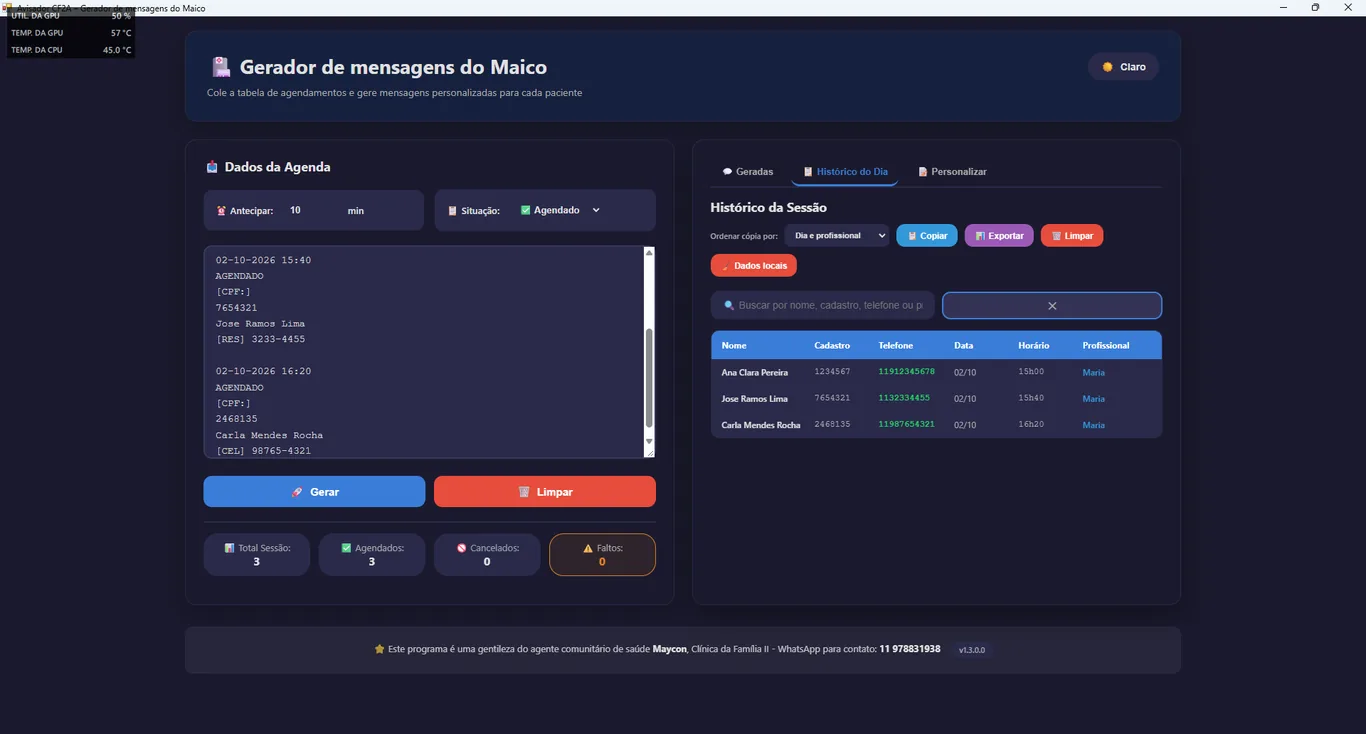
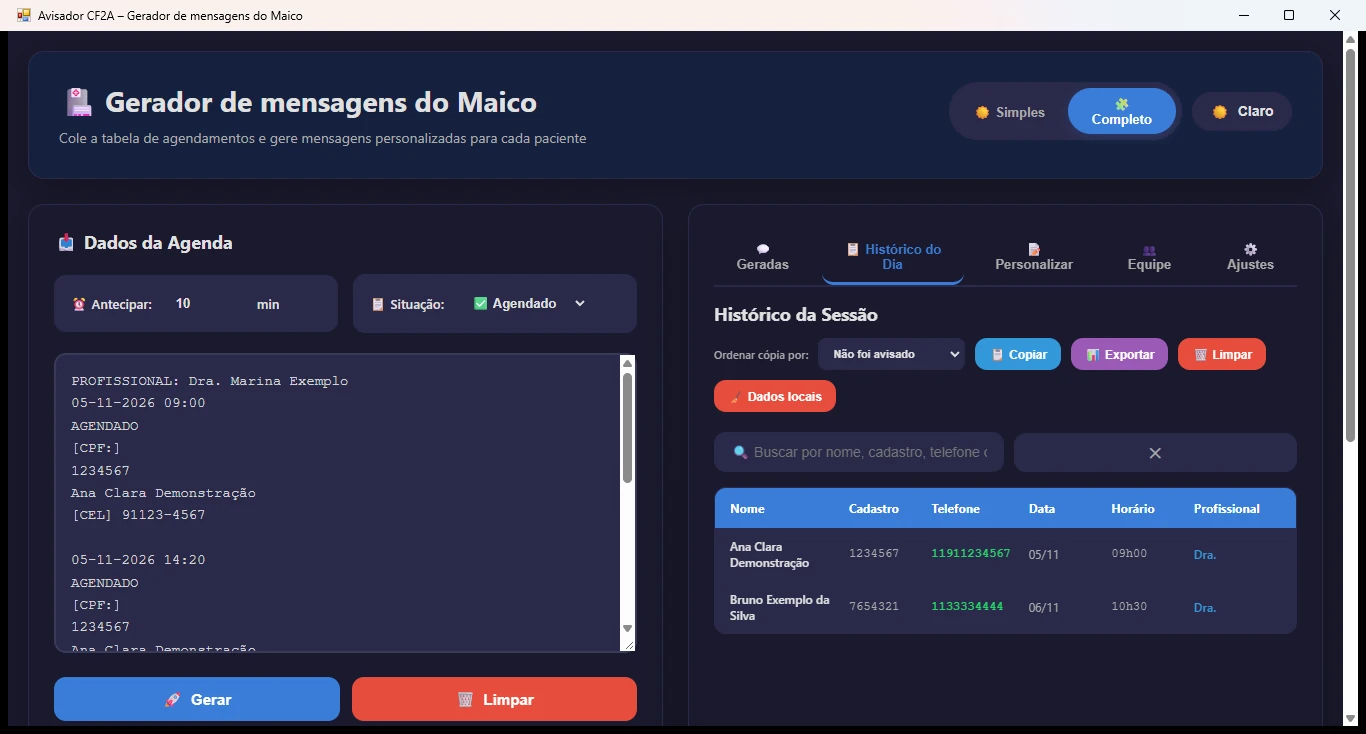
docs: landing, README e capturas WebP na v1.4.0 com og-image atualizada (GH5/GH8)

diff --git a/docs/index.html b/docs/index.html
@@ -107,12 +107,12 @@
             <div class="badges">
                 <span class="badge">🪟 Windows 10/11</span>
                 <span class="badge">🔒 100% offline</span>
-                <span class="badge">📦 v1.3.0</span>
+                <span class="badge">📦 v1.4.0</span>
                 <span class="badge">🧾 Sem cadastro</span>
             </div>
         </div>
         <div class="hero-shot">
-            <img src="assets/screenshot-02.webp" alt="Tela do Avisador CF2A com três mensagens de lembrete geradas, cada uma com telefone, botão de copiar, link e abertura no WhatsApp" width="1366" height="734">
+            <img src="assets/screenshot-02.webp" alt="Tela do Avisador CF2A em modo Completo com mensagens de lembrete geradas: selo ✨ primeira vez, telefone, botão de copiar, funcionando, link e abrir, e o horário antecipado com o original entre parênteses" width="1366" height="734">
         </div>
     </div>
 </header>
@@ -122,6 +122,7 @@
         <div class="card">
             <h2>O que é</h2>
             <p>O Avisador CF2A é um programa de computador (Windows) que transforma a tabela de agendamentos da Clínica da Família em mensagens de WhatsApp de lembrete de consulta. Você cola a tabela exportada do sistema da clínica, escolhe a situação (Agendado, Cancelado ou Faltou) e o programa monta um texto por paciente, com o horário já antecipado quando necessário, o link pronto para abrir no WhatsApp e o registro de tudo no histórico do dia.</p>
+            <p style="margin-top:12px">No <b>Modo Completo</b> (v1.4) você também vê os dados de cada evento, quem já foi avisado (✨ primeira vez ou 🔔 já avisado), a equipe responsável por cada pessoa, acumula várias agendas na fila e une os agendamentos da mesma pessoa numa única mensagem — e pode enviar SMS pelo seu próprio celular (OpenSMS), sem sair do programa.</p>
             <p style="margin-top:12px"><b>Para quem serve:</b> equipes de saúde que avisam pacientes por WhatsApp — agentes comunitários, recepcionistas e profissionais que precisam lembrar consultas sem digitar mensagem por mensagem.</p>
         </div>
     </div>
@@ -137,7 +138,7 @@
                 <figcaption><b>1. Tela inicial</b>Cole a tabela de agendamentos, ajuste quantos minutos antecipar e qual situação gerar. Os contadores mostram o total da sessão.</figcaption>
             </figure>
             <figure class="shot">
-                <img src="assets/screenshot-03.webp" alt="Avisador CF2A em tema escuro mostrando os cartões de mensagens geradas com telefone azul, botões de copiar, funcionando, link e abrir" width="1366" height="734" loading="lazy">
+                <img src="assets/screenshot-03.webp" alt="Avisador CF2A em tema escuro e modo Completo mostrando os cartões de mensagens geradas com selo ✨ primeira vez, telefone azul, botões de copiar, funcionando, link e abrir" width="1366" height="734" loading="lazy">
                 <figcaption><b>2. Mensagens geradas</b>Cada paciente vira um cartão: telefone, botão Copiar, link e Abrir no WhatsApp, e a marcação ✅/❌ de funcionou. Tema claro ou escuro.</figcaption>
             </figure>
             <figure class="shot">
@@ -273,7 +274,7 @@
 <footer>
     <div class="wrap row">
         <div>
-            <b>Avisador CF2A</b> — v1.3.0 (pacote 1.3.0.0)<br>
+            <b>Avisador CF2A</b> — v1.4.0 (pacote 1.4.0.0)<br>
             Contato: <a href="mailto:mmr05@hotmail.com">mmr05@hotmail.com</a> · WhatsApp 11 978831938
         </div>
         <div>

diff --git a/README.md b/README.md
@@ -6,7 +6,7 @@
 
 - **Landing page:** https://wavizo-bot.github.io/Avisador-CF2A/
 - **Microsoft Store:** https://apps.microsoft.com/detail/9PFP3R8HZJ7H
-- **Versão atual:** v1.3.0 (pacote 1.3.0.0)
+- **Versão atual:** v1.4.0 (pacote 1.4.0.0)
 
 ## O que faz
 
@@ -14,17 +14,23 @@ Você cola a tabela de agendamentos exportada do sistema da clínica (texto puro
 
 ### Recursos principais
 
+- **Modo Simples ou Completo** — o Simples mostra só o essencial (como as versões anteriores); o Completo libera todos os dados abaixo;
 - Geração por situação, com modelos de mensagem personalizáveis (aba Personalizar) e prévia ao vivo;
 - Mensagem de **Cancelado** avisando que nova data será enviada; mensagem de **Faltou** perguntando o motivo, sem remarcar;
 - Cartão por paciente com telefone, botão de copiar texto, link e abertura direta no WhatsApp;
+- **Memória de avisos**: cada cartão marca ✨ primeira vez ou 🔔 já avisado, com data e canal (WhatsApp ou SMS) — copiar, abrir ou enviar SMS registra o aviso e evita reaviso;
+- **Equipe responsável**: importação local dos arquivos de equipe do BI (equipes + agendas), equipe padrão por pessoa (médica, enfermeira, assistente) e lista de profissionais com telefone para contatar quando o número do paciente falha;
+- **Fila de agendas (lotes)**: acumule várias agendas antes de gerar — agendamentos da mesma pessoa são unificados numa única mensagem;
+- **Envio de SMS** pelo aplicativo OpenSMS no seu próprio celular, na rede local (endereço e chave configurados na aba Ajustes);
 - Marcação ✅ Funcionou / ❌ Não funcionou por paciente, persistida entre sessões;
 - Histórico do dia/sessão em tabela, com busca, ordenação da cópia, exportação CSV e limpeza seletiva;
 - Temas claro e escuro, DDD padrão e horário de abertura configuráveis;
+- Onboarding em 3 passos com dados de demonstração na primeira execução;
 - Versão dinâmica no rodapé, lida do manifesto do pacote instalado.
 
 ## Privacidade e armazenamento
 
-**100% offline.** Não há login, conta, nuvem, analytics, cookies nem telemetria — e nenhuma integração com Google Drive ou OAuth. Todos os dados (agenda colada, histórico, configurações e marcações) ficam apenas no perfil local do usuário (`%LOCALAPPDATA%\wavizo\AvisadorCF2A`) e são apagados pelos botões internos do app ou na desinstalação.
+**100% offline.** Não há login, conta, nuvem, analytics, cookies nem telemetria — e nenhuma integração com Google Drive ou OAuth. Todos os dados (agenda colada, base de equipe importada, memória de avisos, histórico, configurações e marcações) ficam apenas no perfil local do usuário (`%LOCALAPPDATA%\wavizo\AvisadorCF2A`) e são apagados pelos botões internos do app ou na desinstalação. O envio de SMS, se você o usar, sai do chip do seu próprio celular via servidor OpenSMS na sua rede local — nada trafega por servidores do desenvolvedor.
 
 Documentos legais (publicados também na landing):
 
@@ -60,7 +66,9 @@ Validação de qualidade (WACK, requer elevação):
 powershell -ExecutionPolicy Bypass -File src\elevated-validate.ps1 -CertFile build\test-cert.cer -PackagePath build\AvisadorCF2A_<versao>.msixbundle -ReportPath build\wack-report.xml -LogPath build\wack-log.txt
 ```
 
-Último resultado: **OVERALL PASS, 24/24 testes** no bundle 1.3.0.0.
+Último resultado WACK: **OVERALL PASS, 24/24 testes** no bundle 1.3.0.0.
+
+Teste automatizado da interface (suíte embutida, executada dentro do pacote instalado): **73 PASS, 0 FAIL** no build 1.4.0.0 — inclui toggle de modo, memória de avisos, unificação de lotes, importação da base do BI e a ponte de SMS de ponta a ponta.
 
 ## Estrutura de pastas
 
@@ -92,4 +100,4 @@ Contato: **mmr05@hotmail.com** · WhatsApp **11 978831938**
 
 ### English summary
 
-**Avisador CF2A** is a free Windows 10/11 desktop tool (WinForms + WebView2 host, HTML/JS interface) that turns a clinic's appointment schedule into ready-to-send WhatsApp reminder messages for each patients. Paste the schedule, pick the status (booked, cancelled or missed) and the app prepares one message per patient — with the appointment time shifted forward when needed — plus a direct WhatsApp link, a daily history with search and CSV export, and customizable message templates. It runs **fully offline**: no account, no cloud, no tracking; data stays in the local user profile. It is an independent decision-support helper, not an official health system, medical record or medical device. Build with `src/build.ps1`; store packages live outside the repository. Contact: mmr05@hotmail.com.
+**Avisador CF2A** is a free Windows 10/11 desktop tool (WinForms + WebView2 host, HTML/JS interface) that turns a clinic's appointment schedule into ready-to-send reminder messages for each patients. Paste the schedule, pick the status (booked, cancelled or missed) and the app prepares one message per patient — with the appointment time shifted forward when needed — plus a direct WhatsApp link, a daily history with search and CSV export, customizable message templates, a record of who was already reminded (WhatsApp or SMS), the patient's care team for fallback contact, multi-schedule batching with per-person message merging, and optional SMS through a local OpenSMS server on your own phone. It runs **fully offline**: no account, no cloud, no tracking; data stays in the local user profile. It is an independent decision-support helper, not an official health system, medical record or medical device. Build with `src/build.ps1`; store packages live outside the repository. Contact: mmr05@hotmail.com.
